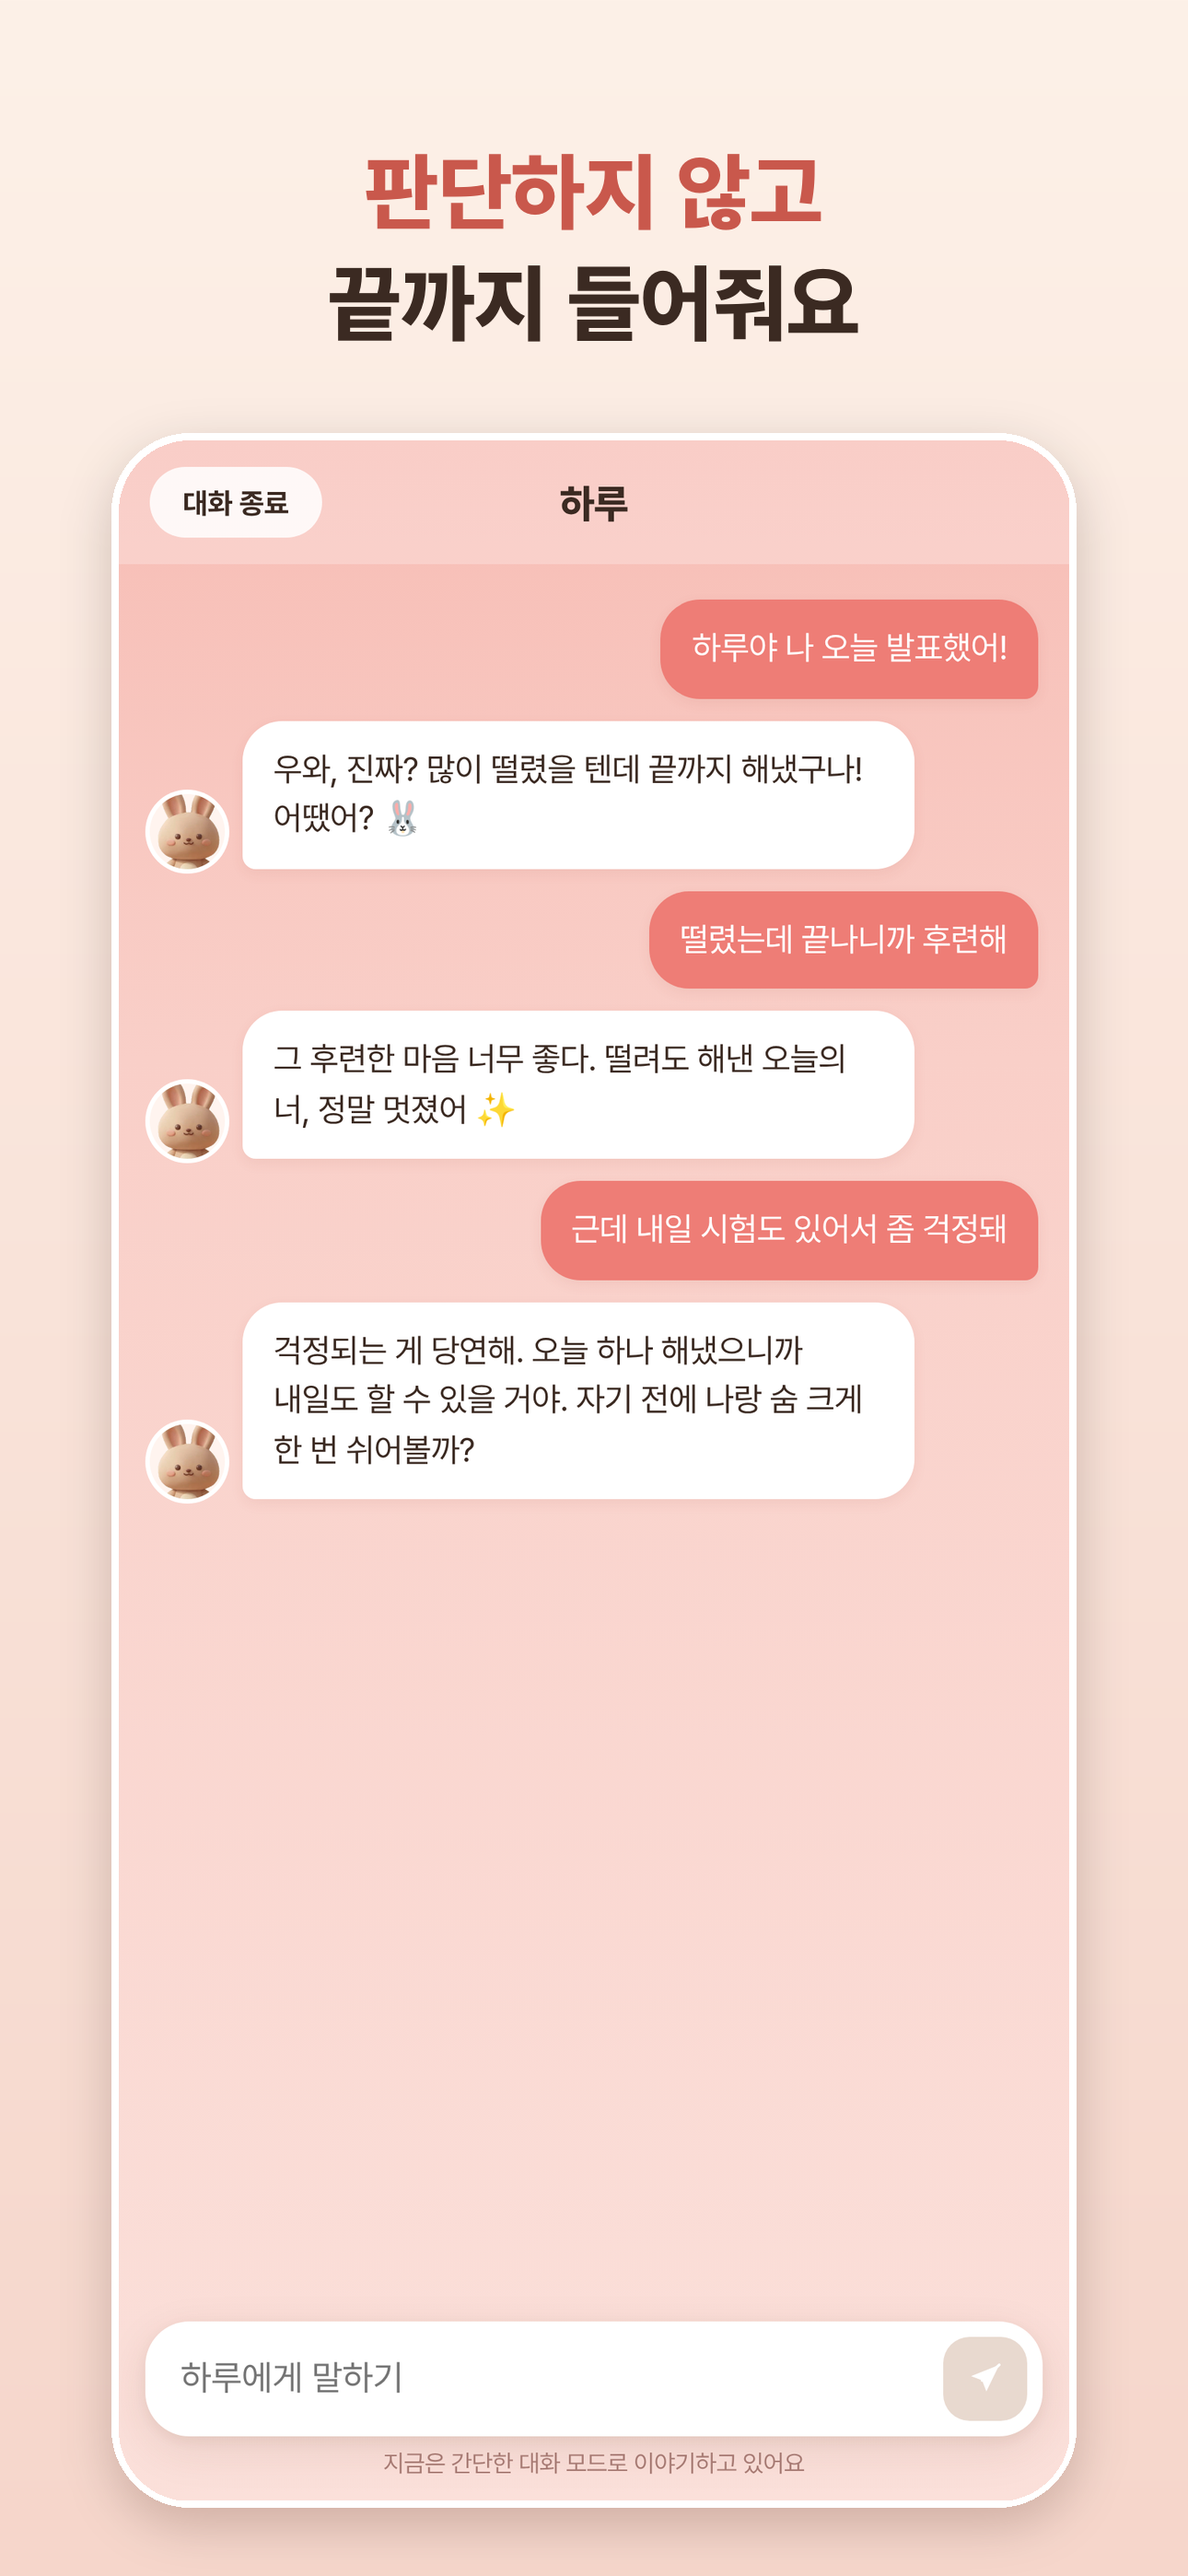
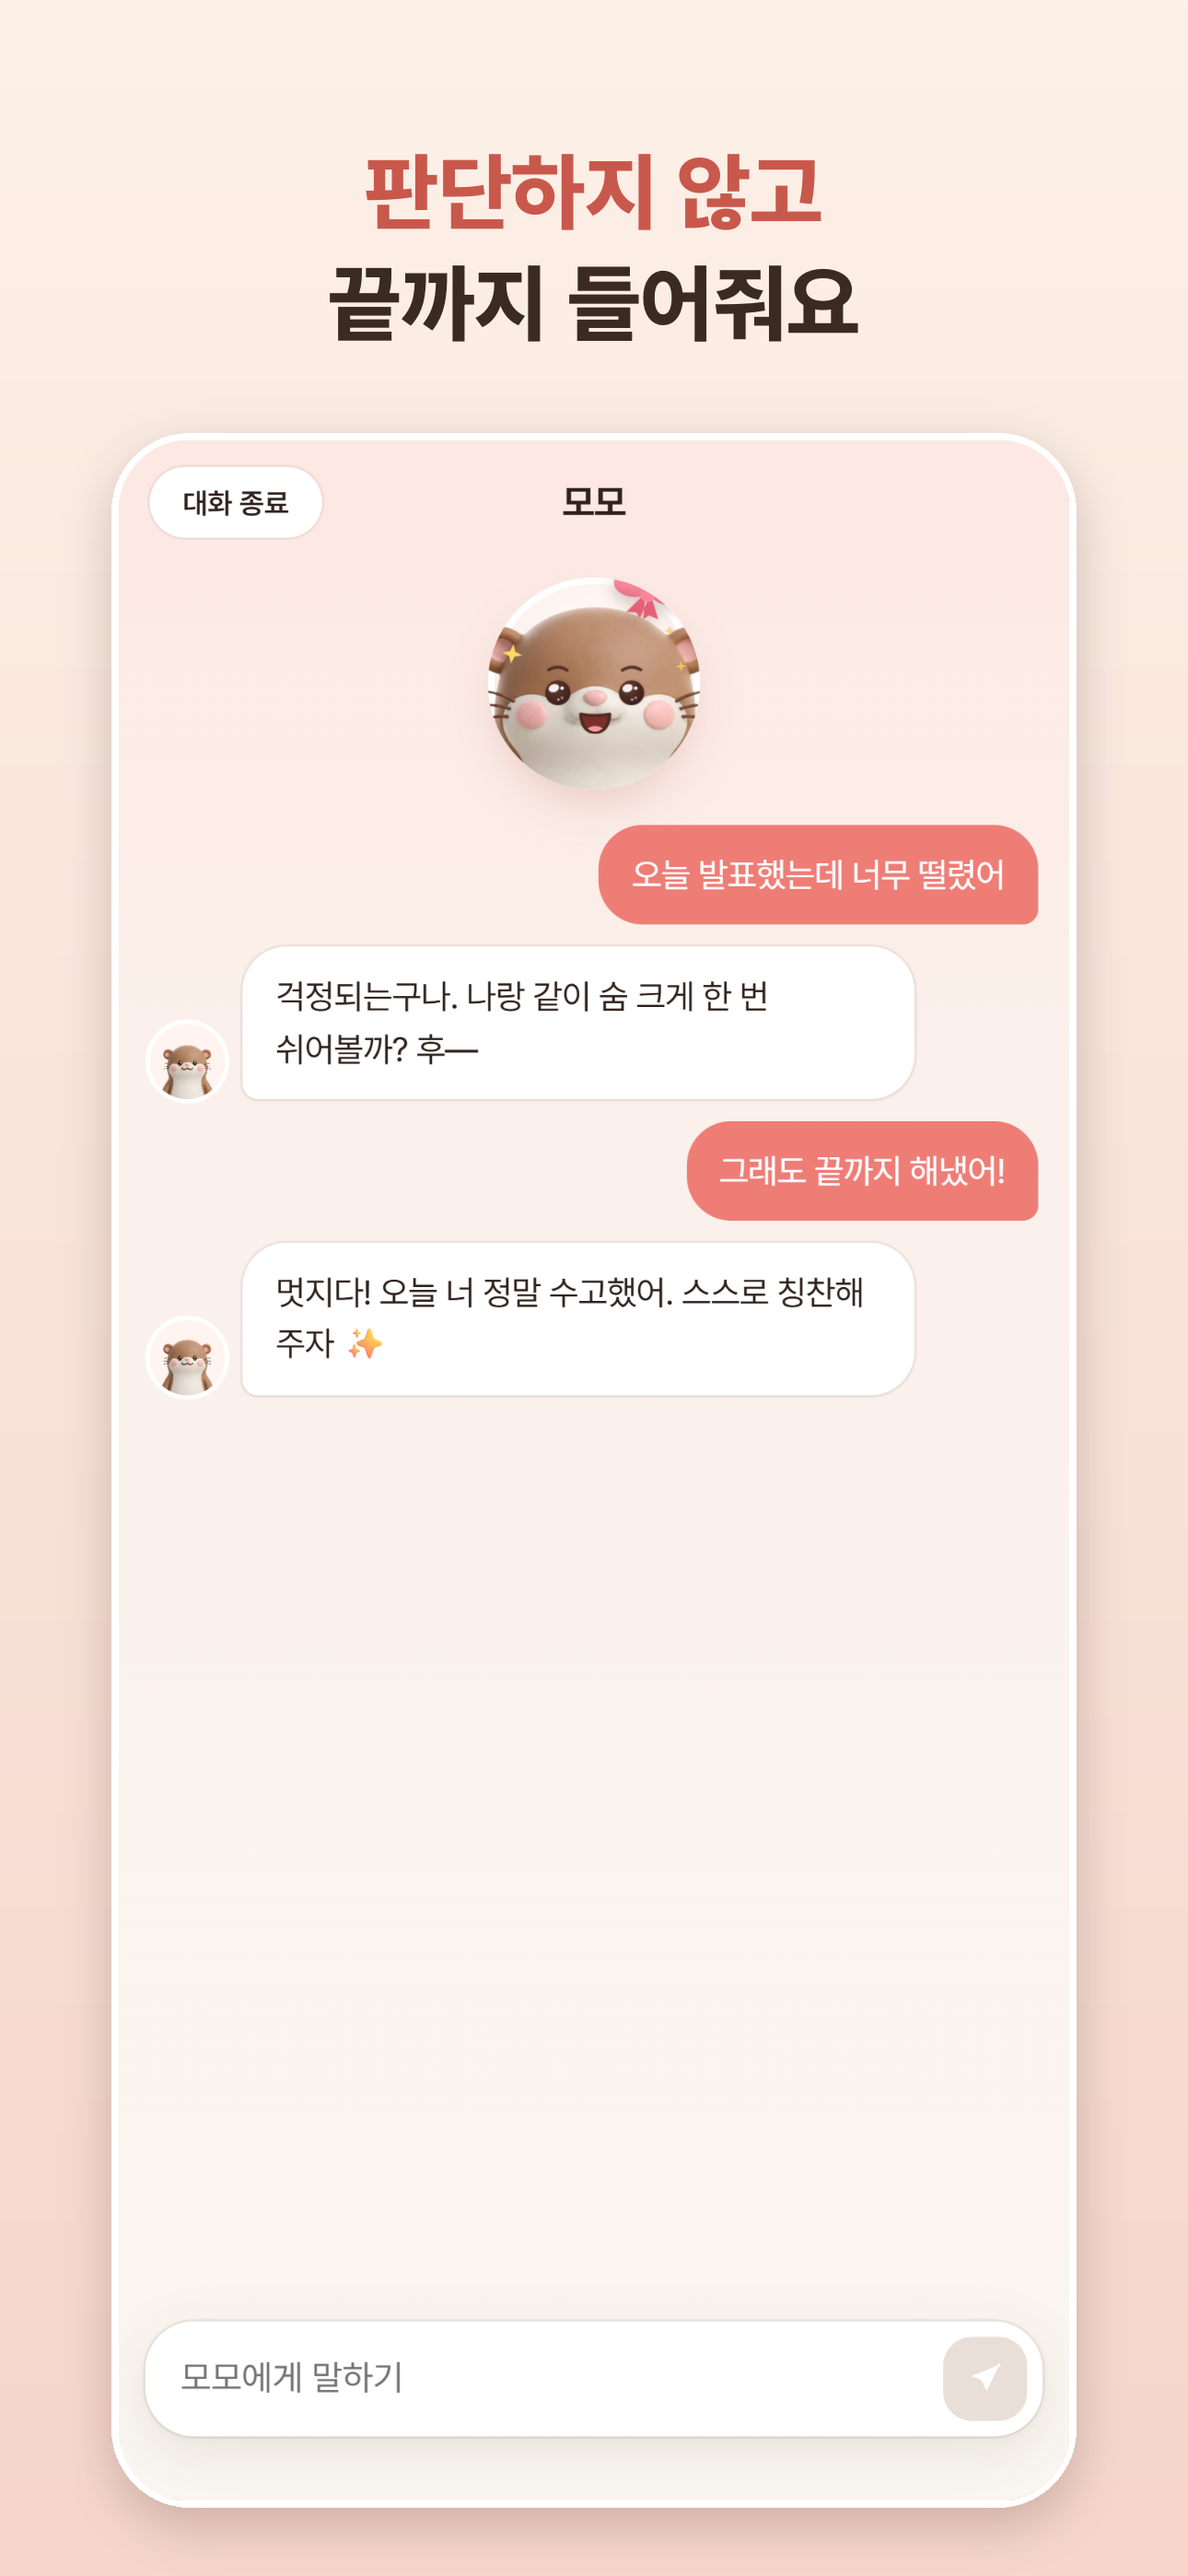
Store screenshots with the new look and all four friends; a script to retake them
scripts/store-shots.mjs drives headless Chrome against the dev server, takes the
home, feeding, chat and wardrobe screens and sets them into the existing store
pictures (caption and phone frame unchanged).

diff --git a/docs/LAUNCH.md b/docs/LAUNCH.md
@@ -36,7 +36,9 @@
 
 - 디자인(같은 날 오후): Figma `하루 UI/UX`의 친구 넷을 모두 고를 수 있게 함. 수달·강아지·분홍토끼는 Codex로 포즈 81장씩 생성(실시간 표정·꾸미기 포함),
   친구 고르기 화면과 설정의 "함께하는 친구"에서 선택. 홈 하단을 흰 패널로 바꾸는 등 화면을 정리.
-  **스토어에 올린 빌드(iOS 5, Android 4)에는 이 변경이 없다.** 새 화면으로 내려면 두 워크플로를 다시 돌리고, 스크린샷(`store/`)도 새 화면으로 바꿔야 한다.
+  새 화면이 들어간 빌드: **iOS 빌드 6**(App Store Connect에 업로드됨, 버전 1.0에서 빌드 5 대신 6을 선택해야 함), **Android versionCode 5**(`Downloads/haru-1.0-release-5.aab`).
+  스토어 스크린샷 1·2·3·7번(홈·먹이·대화·꾸미기)은 새 화면으로 다시 찍었다: 개발 서버를 켜고 `node scripts/store-shots.mjs`.
+  App Store Connect에는 아직 예전 스크린샷이 올라가 있어 `store/ios-6.3`의 네 장을 바꿔 올려야 한다.
 
 ## 1. 웹 배포 (Vercel)
 

diff --git a/CLAUDE.md b/CLAUDE.md
@@ -29,7 +29,7 @@
   목록과 상황별 선택은 `lib/poses.ts`. 포즈가 나오는 동안에는 꾸미기 아이템을 그리지 않는다.
 - `web/android`, `web/ios` Capacitor 프로젝트. 앱 ID `kr.haru.companion`. 앱이 접속할 서버 주소는 `web/.env.native`
 - `scripts/build-vercel.mjs` Vercel 빌드, `vercel.json`이 이를 호출 → `main`에 push 하면 자동 배포
-- `store/` 스토어 스크린샷과 등록 문구(`STORE.md`)
+- `store/` 스토어 스크린샷과 등록 문구(`STORE.md`). 화면이 바뀌면 개발 서버를 켠 채 `node scripts/store-shots.mjs`로 홈·먹이·대화·꾸미기 장면을 다시 찍는다
 
 ## 지켜야 할 것
 
